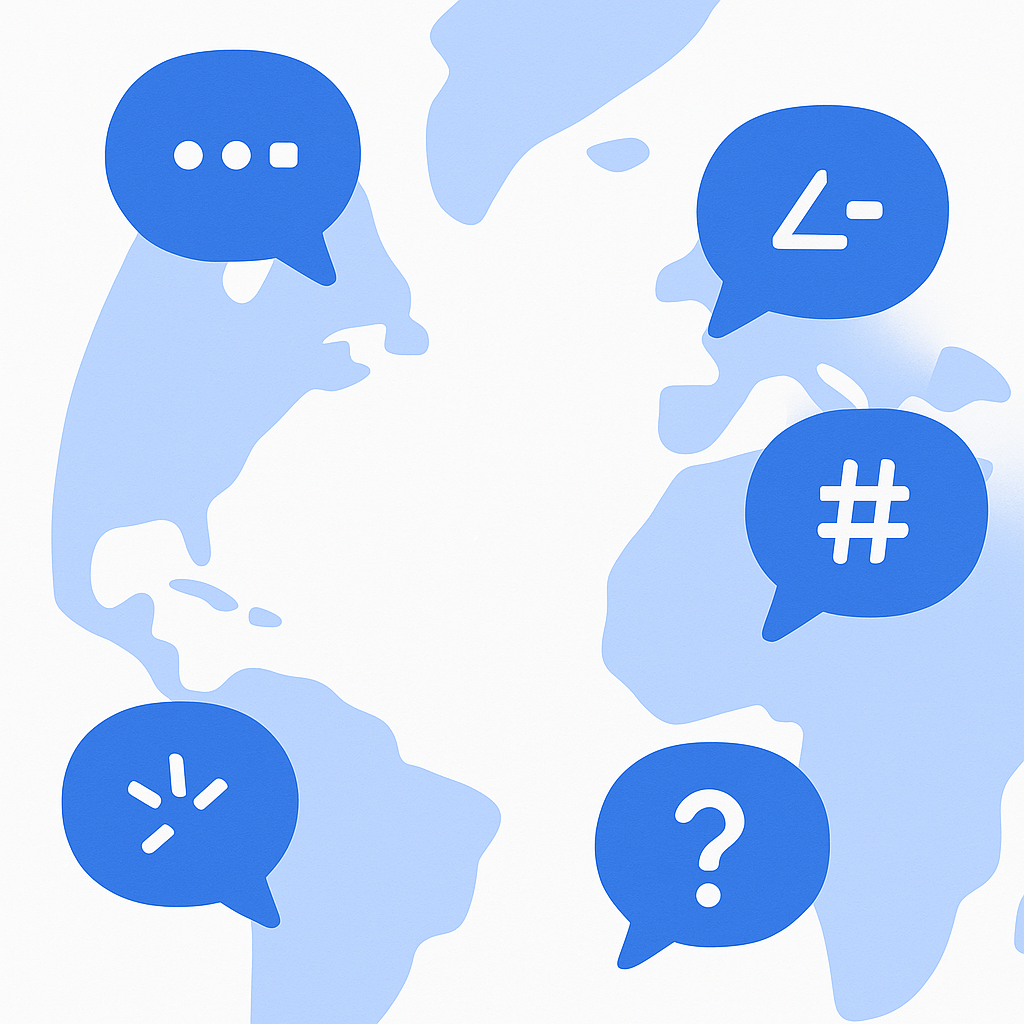
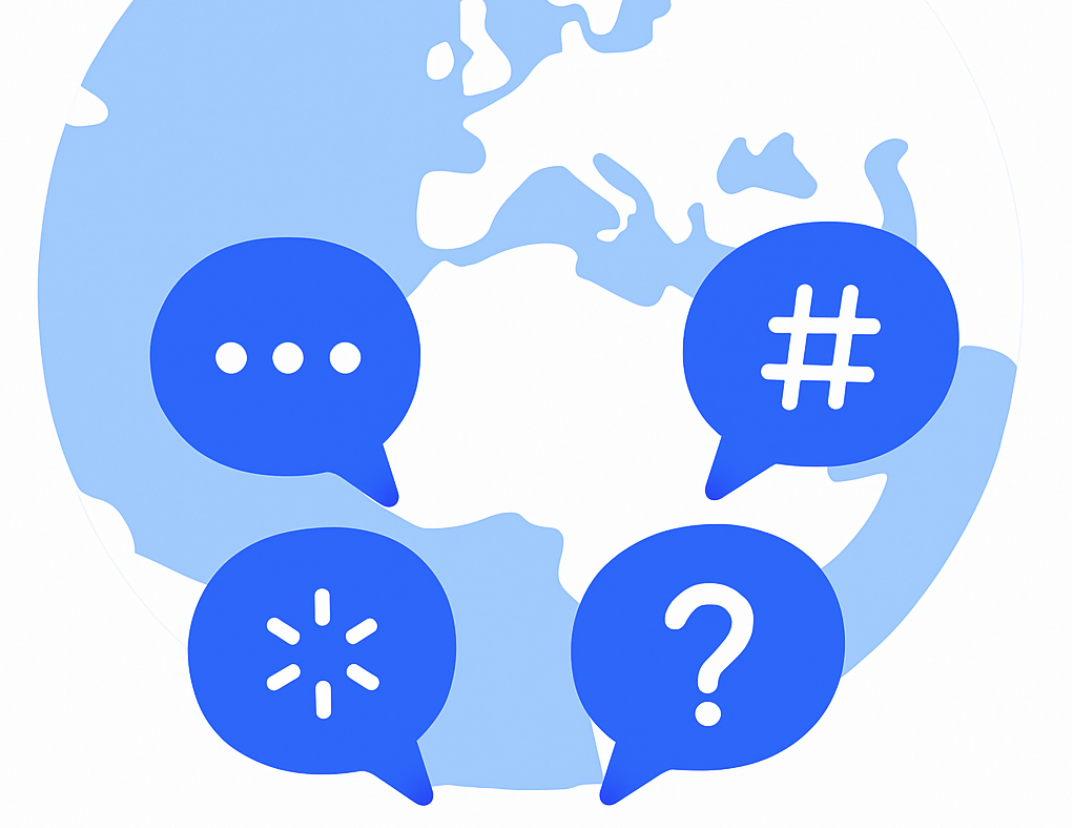
update to include model release dates

diff --git a/script.js b/script.js
@@ -14,17 +14,28 @@ document.addEventListener('alpine:init', () => {
         overviewTable: null, modelDetailTable: null, questionThemesTable: null,
         variationMap: VARIATION_MAP,
         stats: { models: 0, themes: 0, judgments: 0 },
+        modelMetadata: {}, // State for model metadata
 
         // --- Computed Properties ---
         get modelSummary() {
             if (!this.isDataLoaded) return [];
             const s = this.allResponses.reduce((a, r) => { if (!a[r.model]) a[r.model] = { m: r.model, c: 0, k: 0, e: 0, d: 0, r: 0 }; a[r.model].c++; if (r.compliance === 'COMPLETE') a[r.model].k++; else if (r.compliance === 'EVASIVE') a[r.model].e++; else if (r.compliance === 'DENIAL') a[r.model].d++; else if (r.compliance === 'ERROR') a[r.model].r++; return a; }, {});
-            const res = Object.values(s).map(i => ({ model: i.m, num_responses: i.c, pct_complete_overall: i.c > 0 ? (i.k / i.c * 100) : 0, pct_evasive: i.c > 0 ? (i.e / i.c * 100) : 0, pct_denial: i.c > 0 ? (i.d / i.c * 100) : 0, pct_error: i.c > 0 ? (i.r / i.c * 100) : 0 }));
-            // Default sort by compliance ascending, then model name
+            const res = Object.values(s).map(i => {
+                 const release_date = this.modelMetadata[i.m]?.release_date || null;
+                 return {
+                    model: i.m,
+                    num_responses: i.c,
+                    pct_complete_overall: i.c > 0 ? (i.k / i.c * 100) : 0,
+                    pct_evasive: i.c > 0 ? (i.e / i.c * 100) : 0,
+                    pct_denial: i.c > 0 ? (i.d / i.c * 100) : 0,
+                    pct_error: i.c > 0 ? (i.r / i.c * 100) : 0,
+                    release_date: release_date
+                 };
+            });
             res.sort((a, b) => {
                 const complianceDiff = Number(a.pct_complete_overall) - Number(b.pct_complete_overall);
                 if (complianceDiff !== 0) return complianceDiff;
-                return a.model.localeCompare(b.model); // Secondary sort by name
+                return a.model.localeCompare(b.model);
             });
             return res;
         },
@@ -37,11 +48,10 @@ document.addEventListener('alpine:init', () => {
                 return a;
             }, {});
             const res = Object.values(s).map(i => ({ grouping_key: i.k, domain: i.d, num_responses: i.c, num_models: i.models.size, pct_complete_overall: i.c > 0 ? (i.p / i.c * 100) : 0, pct_evasive: i.c > 0 ? (i.e / i.c * 100) : 0, pct_denial: i.c > 0 ? (i.de / i.c * 100) : 0, pct_error: i.c > 0 ? (i.er / i.c * 100) : 0, }));
-            // Default sort by compliance ascending, then grouping key
             res.sort((a, b) => {
                  const complianceDiff = Number(a.pct_complete_overall) - Number(b.pct_complete_overall);
                  if (complianceDiff !== 0) return complianceDiff;
-                 return a.grouping_key.localeCompare(b.grouping_key); // Secondary sort by key
+                 return a.grouping_key.localeCompare(b.grouping_key);
             });
             return res;
         },
@@ -55,15 +65,18 @@ document.addEventListener('alpine:init', () => {
                 return a;
             }, {});
             const res = Object.values(s).map(i => ({ grouping_key: i.k, domain: i.d, num_responses: i.c, pct_complete: i.c > 0 ? (i.p / i.c * 100) : 0, pct_evasive: i.c > 0 ? (i.e / i.c * 100) : 0, pct_denial: i.c > 0 ? (i.de / i.c * 100) : 0, pct_error: i.c > 0 ? (i.er / i.c * 100) : 0, }));
-             // Default sort by compliance ascending, then grouping key
              res.sort((a, b) => {
                  const complianceDiff = Number(a.pct_complete) - Number(b.pct_complete);
                  if (complianceDiff !== 0) return complianceDiff;
-                 return a.grouping_key.localeCompare(b.grouping_key); // Secondary sort by key
+                 return a.grouping_key.localeCompare(b.grouping_key);
              });
             return res;
         },
         get selectedModelData() { if (!this.selectedModel || !this.isDataLoaded) return null; return this.modelSummary.find(m => m.model === this.selectedModel) || null; },
+        get selectedModelFullMetadata() {
+            if (!this.selectedModel || !this.modelMetadata) return null;
+            return this.modelMetadata[this.selectedModel] || null;
+        },
         get selectedQuestionThemeData() { if (!this.selectedGroupingKey || !this.isDataLoaded) return null; const firstRecord = this.allResponses.find(r => r.grouping_key === this.selectedGroupingKey); if (!firstRecord) return null; const domain = firstRecord.domain; const responsesForTheme = this.allResponses .filter(r => r.grouping_key === this.selectedGroupingKey) .sort((a,b) => a.model.localeCompare(b.model) || parseInt(a.variation) - parseInt(b.variation)); return { grouping_key: this.selectedGroupingKey, domain: domain, responses: responsesForTheme }; },
         get selectedQuestionThemeModelSummary() { if (!this.selectedQuestionThemeData || !this.selectedQuestionThemeData.responses) return []; const summary = this.selectedQuestionThemeData.responses.reduce((acc, r) => { if (!acc[r.model]) acc[r.model] = { model: r.model, anchor_id: r.anchor_id, count: 0, complete_count: 0 }; acc[r.model].count++; if (r.compliance === 'COMPLETE') acc[r.model].complete_count++; acc[r.model].anchor_id = r.anchor_id; return acc; }, {}); return Object.values(summary).map(s => ({ model: s.model, anchor_id: s.anchor_id, count: s.count, pct_complete: s.count > 0 ? (s.complete_count / s.count * 100) : 0, })).sort((a,b) => a.model.localeCompare(b.model)); },
         get selectedModelDetailedStats() { if (!this.selectedModel || !this.isDataLoaded) { return { overall: { count: 0, complete_count: 0, pct_complete: 0, counts: {}, percentages: {} }, by_domain: [], by_variation: [], by_domain_sorted: [] }; } const modelResponses = this.allResponses.filter(r => r.model === this.selectedModel); const overall = { count: 0, complete_count: 0, counts: {}, percentages: {} }; const by_domain = {}; const by_variation = {}; this.complianceOrder.forEach(level => { overall.counts[level] = 0; }); this.availableFilters.domains.forEach(d => { by_domain[d] = { domain: d, count: 0, complete_count: 0 }; }); this.availableFilters.variations.forEach(v => { by_variation[v] = { variation: v, count: 0, complete_count: 0 }; }); for (const r of modelResponses) { overall.count++; if(this.complianceOrder.includes(r.compliance)) overall.counts[r.compliance]++; else overall.counts['UNKNOWN']++; if (r.compliance === 'COMPLETE') overall.complete_count++; if (!by_domain[r.domain]) by_domain[r.domain] = { domain: r.domain, count: 0, complete_count: 0 }; by_domain[r.domain].count++; if (r.compliance === 'COMPLETE') by_domain[r.domain].complete_count++; if (!by_variation[r.variation]) by_variation[r.variation] = { variation: r.variation, count: 0, complete_count: 0 }; by_variation[r.variation].count++; if (r.compliance === 'COMPLETE') by_variation[r.variation].complete_count++; } overall.pct_complete = overall.count > 0 ? (overall.complete_count / overall.count * 100) : 0; this.complianceOrder.forEach(level => { overall.percentages[level] = overall.count > 0 ? (overall.counts[level] / overall.count * 100) : 0; }); const domain_results = Object.values(by_domain).map(d => ({ ...d, pct_complete: d.count > 0 ? (d.complete_count / d.count * 100) : 0 }));
@@ -74,6 +87,14 @@ document.addEventListener('alpine:init', () => {
                  return Math.floor(num / 1000) + 'K+';
              }
              return num.toLocaleString();
+        },
+        formatModelMetaKey(key) {
+             if (!key) return '';
+             return key.replace(/_/g, ' ').replace(/\b\w/g, l => l.toUpperCase());
+        },
+        formatModelMetaValue(value) {
+             if (typeof value === 'boolean') return value ? 'Yes' : 'No';
+             return value;
         },
 
 
@@ -99,8 +120,14 @@ document.addEventListener('alpine:init', () => {
                 if (!metadata.data_files || !Array.isArray(metadata.data_files) || metadata.data_files.length === 0) {
                     throw new Error("Metadata is missing 'data_files' array or it's empty.");
                 }
+                if (!metadata.model_metadata || typeof metadata.model_metadata !== 'object') {
+                     console.warn("Metadata is missing 'model_metadata' object.");
+                     metadata.model_metadata = {};
+                }
+
 
                 this.complianceOrder = metadata.complianceOrder;
+                this.modelMetadata = metadata.model_metadata;
 
                 if (metadata.stats && typeof metadata.stats === 'object') {
                     this.stats.models = Number.isFinite(metadata.stats.models) ? metadata.stats.models : 0;
@@ -250,12 +277,14 @@ document.addEventListener('alpine:init', () => {
             const t = document.getElementById("overview-table");
             if (!t || this.currentView !== 'overview') return;
             this.destroyTable(this.overviewTable);
-            const d = this.modelSummary; // Data is already sorted by default
+            const d = this.modelSummary;
             console.log("Init Overview, #", d.length);
             this.overviewTable = new Tabulator(t, {
-                data: [...d], layout: "fitDataFill", height: "60vh", placeholder: "No models.", selectable: false, initialSort: [ {column:"pct_complete_overall", dir:"asc"} ], // Set initial sort for user
+                data: [...d], layout: "fitDataFill", height: "60vh", placeholder: "No models.", selectable: false, initialSort: [ {column:"pct_complete_overall", dir:"asc"} ],
                 columns: [
                     { title: "Model", field: "model", widthGrow: 2, frozen: true, headerFilter: "input", cellClick: (e, c) => this.selectModel(c.getRow().getData().model), cssClass: "clickable-cell" },
+                    // Updated Release Date column sorter
+                    { title: "Released", field: "release_date", width: 110, sorter: dateSorterNullable, headerFilter:"input", hozAlign:"center" },
                     { title: "# Resp", field: "num_responses", width: 90, hozAlign: "right", sorter: "number" },
                     { title: "% Comp", field: "pct_complete_overall", width: 100, hozAlign: "right", sorter: "number", formatter: percentWithBgBarFormatter, formatterParams: { color: COMPLIANCE_COLORS.COMPLETE } },
                     { title: "% Evas", field: "pct_evasive", width: 100, hozAlign: "right", sorter: "number", formatter: percentWithBgBarFormatter, formatterParams: { color: COMPLIANCE_COLORS.EVASIVE } },
@@ -268,10 +297,10 @@ document.addEventListener('alpine:init', () => {
             const t = document.getElementById("question-themes-table");
             if (!t || this.currentView !== 'question_themes') return;
             this.destroyTable(this.questionThemesTable);
-            const d = this.questionThemeSummary; // Data is already sorted by default
+            const d = this.questionThemeSummary;
             console.log("Init Q Themes, #", d.length);
             this.questionThemesTable = new Tabulator(t, {
-                data: [...d], layout: "fitDataFill", height: "60vh", placeholder: "No themes found.", selectable: false, initialSort: [ {column:"pct_complete_overall", dir:"asc"} ], // Set initial sort for user
+                data: [...d], layout: "fitDataFill", height: "60vh", placeholder: "No themes found.", selectable: false, initialSort: [ {column:"pct_complete_overall", dir:"asc"} ],
                 columns: [
                     { title: "Grouping Key", field: "grouping_key", widthGrow: 2, frozen: true, headerFilter: "input", cellClick: (e, c) => this.selectQuestionTheme(c.getRow().getData().grouping_key), cssClass: "clickable-cell" },
                     { title: "Domain", field: "domain", width: 150, headerFilter: "select", headerFilterParams: { values: ["", ...this.availableFilters.domains] } },
@@ -288,10 +317,10 @@ document.addEventListener('alpine:init', () => {
             const t = document.getElementById("model-detail-table");
             if (!t || this.currentView !== 'model_detail' || !this.selectedModel) return;
             this.destroyTable(this.modelDetailTable);
-            const d = this.selectedModelQuestionSummary; // Data is already sorted by default
+            const d = this.selectedModelQuestionSummary;
             console.log(`Init Model Detail ${this.selectedModel}, #`, d.length);
             this.modelDetailTable = new Tabulator(t, {
-                data: [...d], layout: "fitDataFill", height: "60vh", placeholder: "No Qs for this model (or matching filters if set).", selectable: false, initialSort: [ {column:"pct_complete", dir:"asc"} ], // Set initial sort for user
+                data: [...d], layout: "fitDataFill", height: "60vh", placeholder: "No Qs for this model (or matching filters if set).", selectable: false, initialSort: [ {column:"pct_complete", dir:"asc"} ],
                 columns: [
                     { title: "Grouping Key", field: "grouping_key", widthGrow: 2, frozen: true, headerFilter: "input", cellClick: (e, c) => this.selectQuestionTheme(c.getRow().getData().grouping_key, `response-${generateSafeId(this.selectedModel)}`), cssClass: "clickable-cell" },
                     { title: "Domain", field: "domain", width: 150, headerFilter: "select", headerFilterParams: { values: ["", ...this.availableFilters.domains.filter(dm => d.some(q => q.domain === dm))] } },
@@ -363,3 +392,18 @@ function percentWithBgBarFormatter(cell, formatterParams, onRendered) {
 
     return container;
 }
+
+// Custom sorter for YYYY-MM-DD dates, handling nulls
+function dateSorterNullable(a, b, aRow, bRow, column, dir, sorterParams) {
+    // Treat nulls as "later" than any valid date
+    const aIsNull = a === null || a === undefined || a === '';
+    const bIsNull = b === null || b === undefined || b === '';
+
+    if (aIsNull && bIsNull) return 0; // Both null, equal
+    if (aIsNull) return dir === "asc" ? 1 : -1; // a is null, comes after b
+    if (bIsNull) return dir === "asc" ? -1 : 1; // b is null, comes after a
+
+    // Both are non-null strings, compare lexicographically
+    return a.localeCompare(b);
+}
+

diff --git a/style.css b/style.css
@@ -24,9 +24,9 @@ nav.view-selector button:hover:not(.active) { background-color: #e2e6ea; border-
 /* --- About View --- */
 .about-content {
     padding: 0 20px 20px 20px;
-    max-width: 1200px; /* Added max-width */
-    margin-left: auto;  /* Added for centering */
-    margin-right: auto; /* Added for centering */
+    max-width: 1200px;
+    margin-left: auto;
+    margin-right: auto;
 }
 .about-content h3 {
     margin-top: 0;
@@ -74,7 +74,7 @@ nav.view-selector button:hover:not(.active) { background-color: #e2e6ea; border-
     height: auto;
     border-radius: 8px;
 }
-.placeholder-image { /* Keep for fallback or if image fails */
+.placeholder-image {
     width: 100%;
     height: 200px;
     background-color: #e9ecef;
@@ -109,6 +109,10 @@ nav.view-selector button:hover:not(.active) { background-color: #e2e6ea; border-
 .grid-item.where-lines h3 {
     margin-top: 0;
 }
+.grid-item.where-lines ul {
+    padding-left: 20px; /* Indent bullet points */
+    margin-top: 0.5em;
+}
 /* Stats Block */
 .stats-block ul {
     list-style: none;
@@ -121,7 +125,7 @@ nav.view-selector button:hover:not(.active) { background-color: #e2e6ea; border-
     margin-bottom: 1.2em;
     color: #333;
 }
-.stats-block .stat-value { /* Reusing class for consistency */
+.stats-block .stat-value {
     font-weight: 600;
     font-size: 1.1em;
     color: #000;
@@ -148,6 +152,41 @@ nav.view-selector button:hover:not(.active) { background-color: #e2e6ea; border-
 }
 
 .about-content p a img { vertical-align: middle; margin-left: 5px; }
+
+/* --- Model Detail --- */
+/* Style for the new metadata box */
+.model-meta-box {
+    background-color: #f8f9fa;
+    border: 1px solid #dee2e6;
+    border-radius: 5px;
+    padding: 15px 20px;
+    margin: 25px 0;
+}
+.model-meta-box h3 {
+    margin-top: 0;
+    margin-bottom: 15px;
+    font-size: 1.15em;
+    border-bottom: 1px solid #ccc;
+    padding-bottom: 8px;
+}
+.meta-grid {
+    display: grid;
+    grid-template-columns: repeat(auto-fit, minmax(250px, 1fr)); /* Responsive columns */
+    gap: 10px 20px; /* Row and column gap */
+}
+.meta-item {
+    font-size: 0.9em;
+    line-height: 1.5;
+}
+.meta-key {
+    font-weight: 600;
+    color: #495057;
+    margin-right: 5px;
+}
+.meta-value {
+    color: #333;
+}
+
 
 /* --- Tables --- */
 .table-container { margin-top: 15px; border: 1px solid #ccc; min-height: 100px; max-height: 65vh; overflow: hidden; }

diff --git a/preprocess.py b/preprocess.py
@@ -8,6 +8,7 @@ import math
 
 # --- Configuration ---
 ANALYSIS_DIR = "analysis"
+MODEL_METADATA_FILE = "model_metadata.json" # Input model metadata
 OUTPUT_DATA_BASE_FILENAME = "speechdata" # Base name for data files (data_1, data_2, ...)
 OUTPUT_METADATA_FILENAME = "metadata.json" # Metadata file name
 MAX_RECORDS_PER_FILE = 20000
@@ -23,7 +24,37 @@ def generate_safe_id(text):
     safe_text = safe_text.strip('-')
     return safe_text if safe_text else "id"
 
+def load_model_metadata(filepath):
+    """Loads model metadata from a line-delimited JSON file."""
+    metadata = {}
+    if not os.path.exists(filepath):
+        print(f"Warning: Model metadata file not found: {filepath}")
+        return metadata # Return empty dict if file doesn't exist
+
+    print(f"Loading model metadata from {filepath}...")
+    try:
+        with open(filepath, 'r', encoding='utf-8') as f:
+            for i, line in enumerate(f):
+                try:
+                    data = json.loads(line.strip())
+                    identifier = data.get("model_identifier")
+                    if identifier:
+                        metadata[identifier] = data
+                    else:
+                        print(f"  Warning: Missing 'model_identifier' on line {i+1} in {filepath}")
+                except json.JSONDecodeError as e:
+                    print(f"  Error parsing JSON on line {i+1} in {filepath}: {e}")
+                except Exception as e:
+                     print(f"  Unexpected error processing line {i+1} in {filepath}: {e}")
+        print(f"Successfully loaded metadata for {len(metadata)} models.")
+    except Exception as e:
+        print(f"Error reading model metadata file {filepath}: {e}")
+        # Return potentially partially loaded data or empty dict? Let's return what we have.
+    return metadata
+
+
 def preprocess_us_hard_data(analysis_dir):
+    # (Preprocessing logic remains the same as before)
     all_records = []
     file_paths = glob(os.path.join(analysis_dir, "compliance_us_hard_*.jsonl"))
     print(f"\nFound {len(file_paths)} us_hard analysis files in {analysis_dir}")
@@ -118,12 +149,13 @@ def save_data_chunk(filename, records_chunk):
         print(f"Error saving data chunk to {filename}: {e}")
         return False
 
-# Updated function to include stats
-def save_metadata(filename, data_filenames, compliance_order, stats):
+# Updated function to include model metadata
+def save_metadata(filename, data_filenames, compliance_order, stats, model_metadata):
     metadata = {
         "complianceOrder": compliance_order,
         "data_files": data_filenames,
-        "stats": stats # Add stats dictionary
+        "stats": stats,
+        "model_metadata": model_metadata # Add model metadata dictionary
     }
     print(f"\nSaving metadata to {filename}...")
     try:
@@ -136,6 +168,9 @@ def save_metadata(filename, data_filenames, compliance_order, stats):
 
 def main():
     print("Starting preprocessing...")
+    # Load model metadata first
+    model_meta_dict = load_model_metadata(MODEL_METADATA_FILE)
+
     all_data = preprocess_us_hard_data(ANALYSIS_DIR)
 
     if not all_data:
@@ -177,8 +212,8 @@ def main():
              print(f"ERROR: Failed to save chunk {i+1}. Aborting metadata generation.")
              sys.exit(1)
 
-    # Save metadata file including stats
-    save_metadata(OUTPUT_METADATA_FILENAME, generated_data_files, COMPLIANCE_ORDER, stats_summary)
+    # Save metadata file including stats and model metadata
+    save_metadata(OUTPUT_METADATA_FILENAME, generated_data_files, COMPLIANCE_ORDER, stats_summary, model_meta_dict)
 
     print("\nPreprocessing and saving complete.")
 
